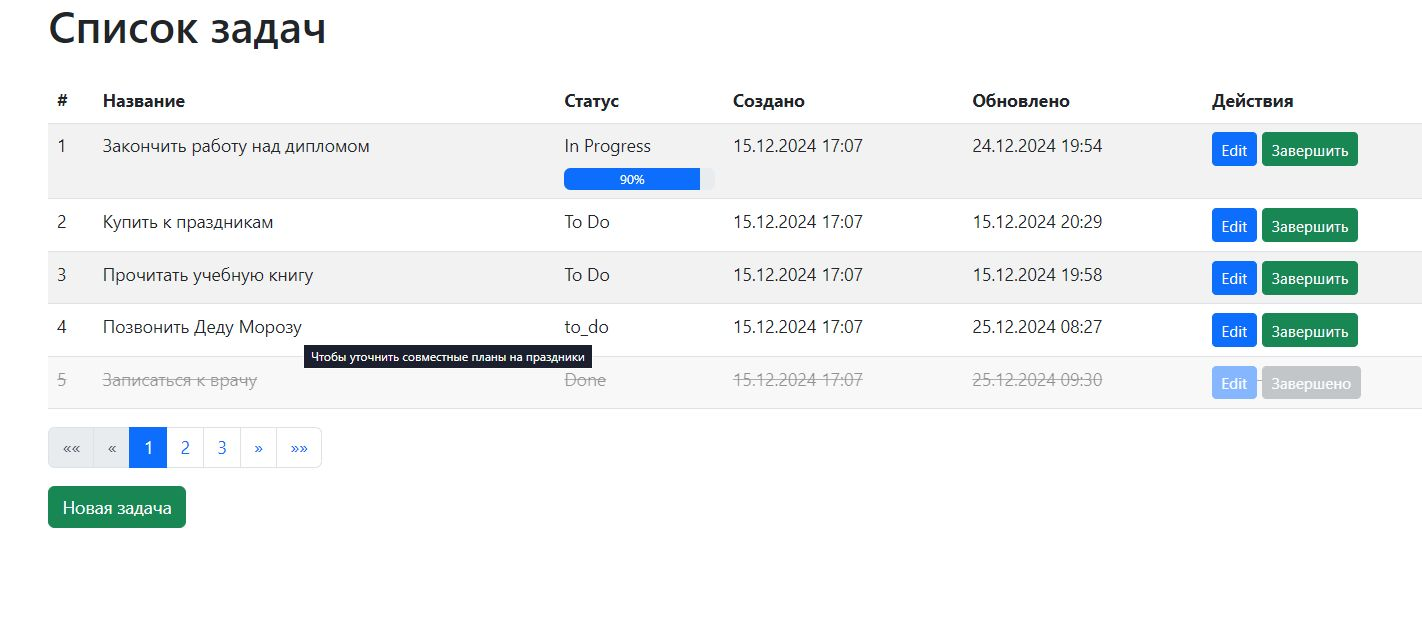
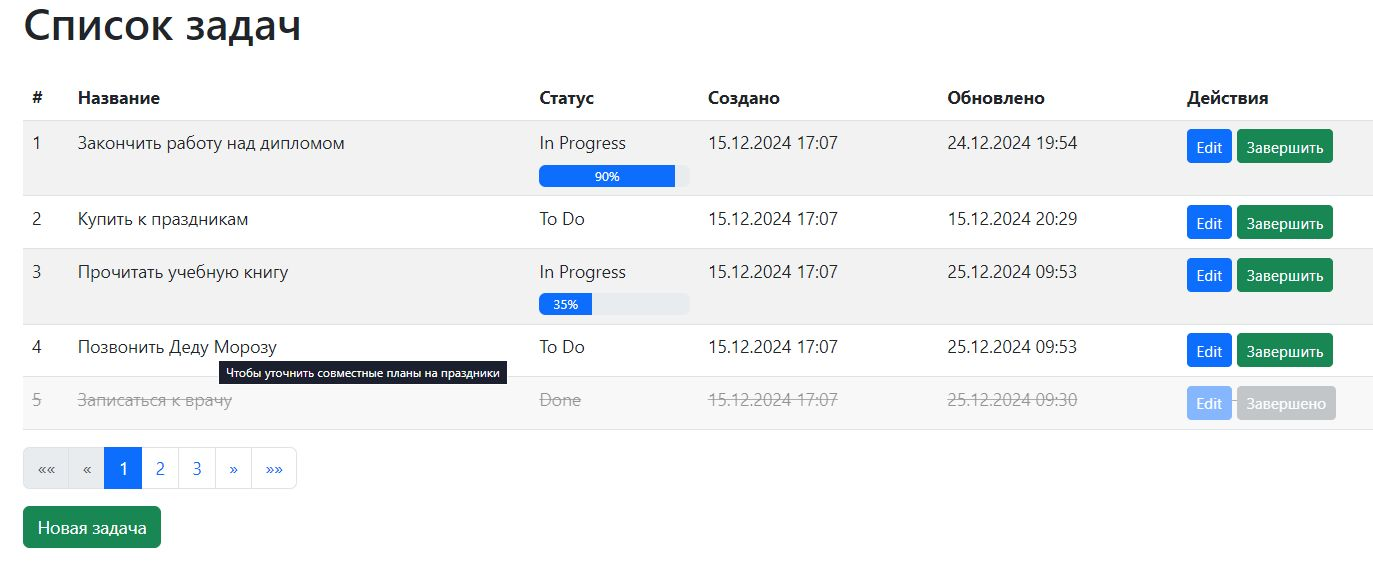
одправлено ошибочное наименование статуса в модели save; Исправлены автостатусы при редактировании Доработаны переходы из редактирования в список (сохраняется та же страница)+авто статус In progress, если он больше нуля; В пагинации сделаны кнопки; Добавлена пагинация без кнопок с номерами; Добавлен

diff --git a/tasks/models.py b/tasks/models.py
@@ -21,7 +21,7 @@ class Task(models.Model):
             self.status = 'in_progress'
         # Если прогресс равен 0, возвращаем статус "To Do"
         elif self.progress == 0:
-            self.status = 'to_do'
+            self.status = 'todo'
         super().save(*args, **kwargs)
 
     def __str__(self):
